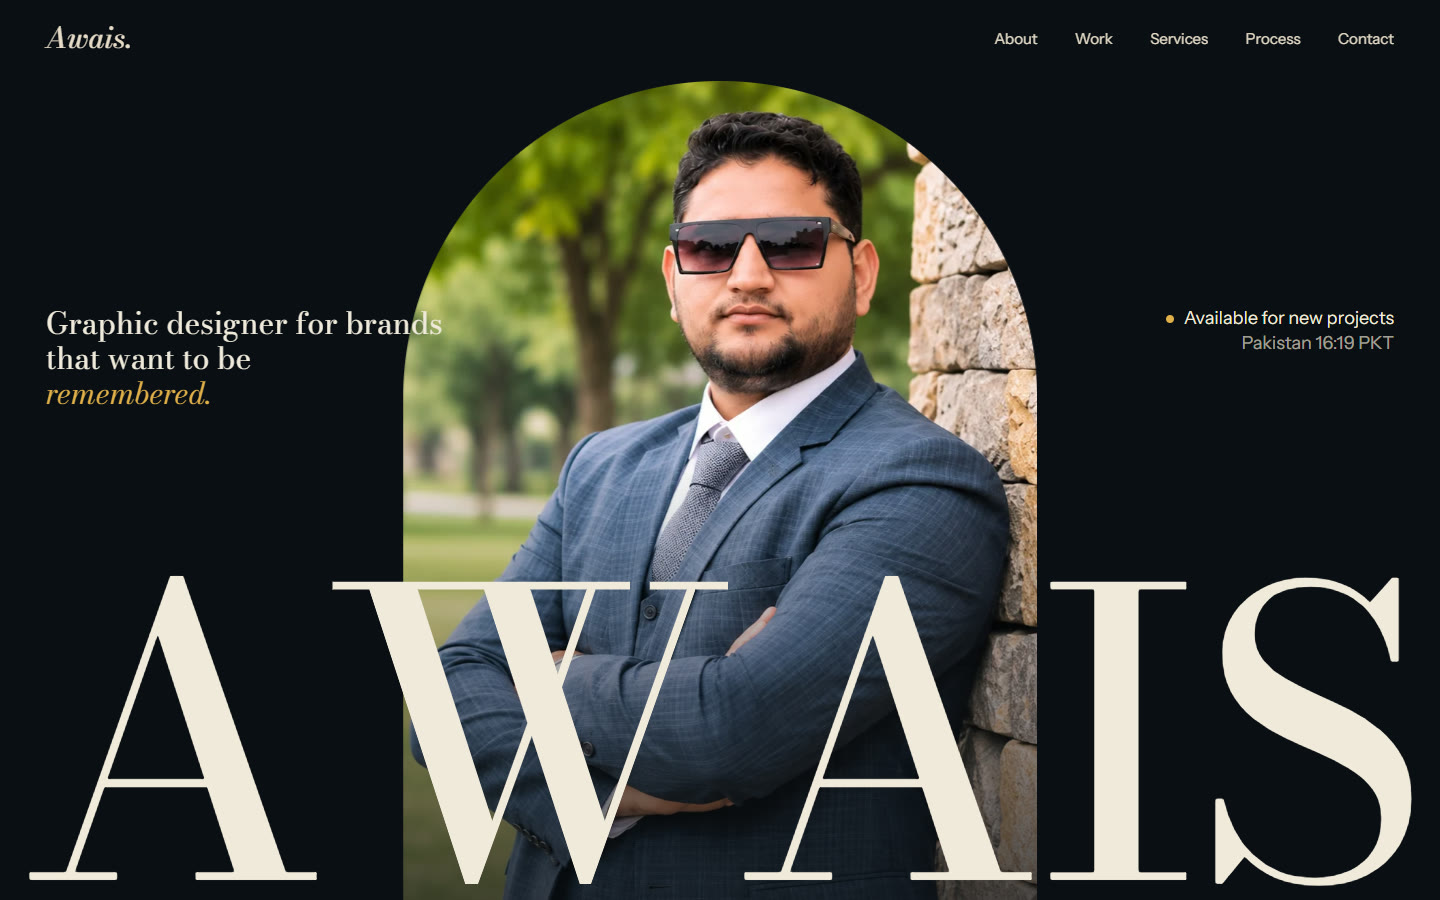
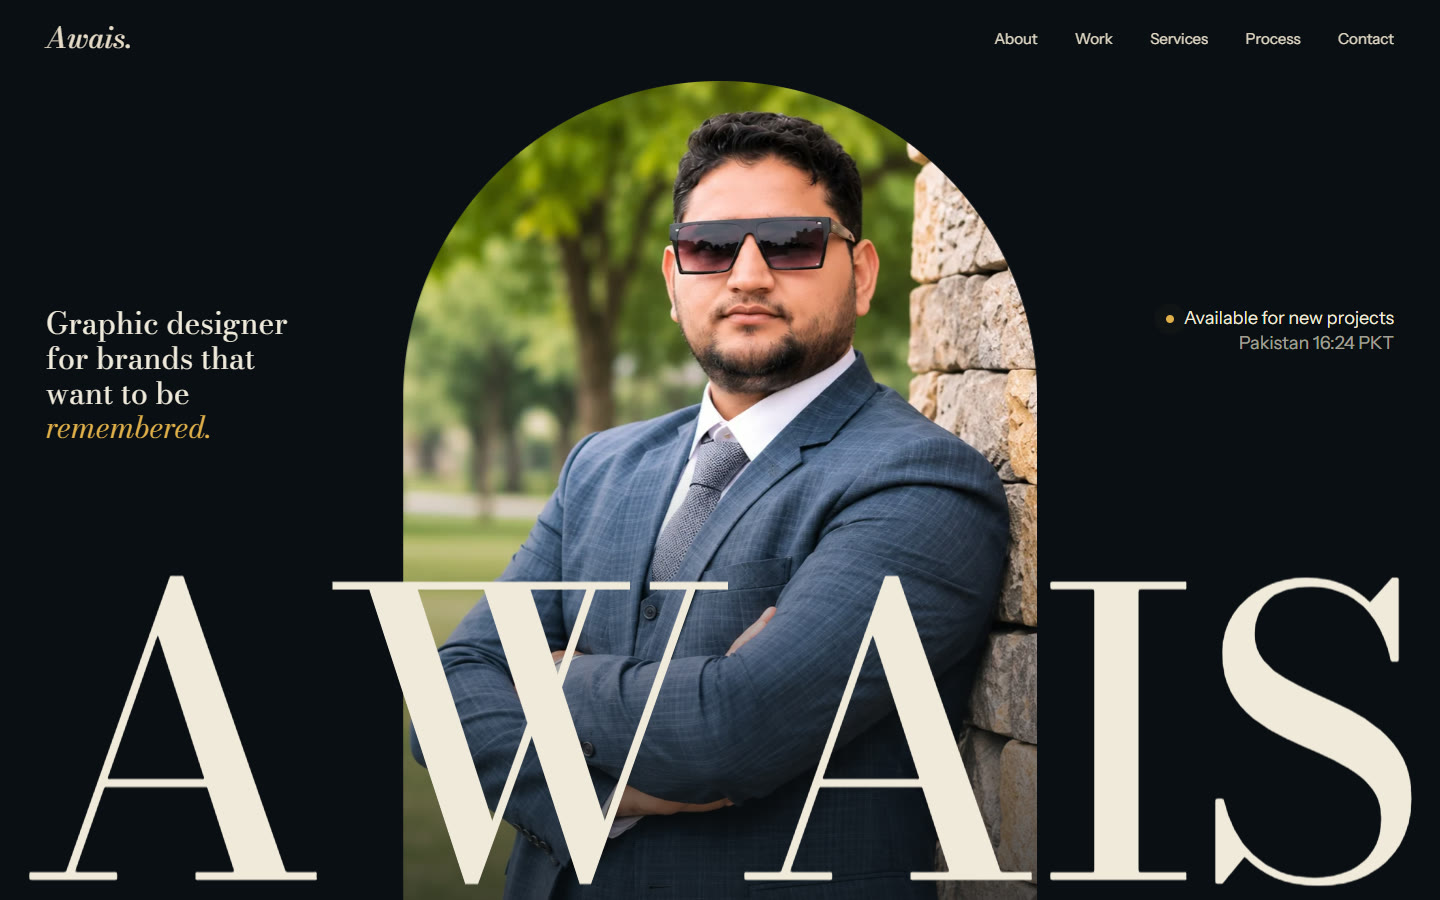
Keep hero tagline clear of the portrait

diff --git a/index.html b/index.html
@@ -57,7 +57,7 @@
       <figure class="hero__portrait">
         <img src="assets/img/awais-wall.webp" alt="Awais in a slate-blue three-piece suit and dark sunglasses, arms folded, leaning on a stone wall" width="1254" height="1254" fetchpriority="high">
       </figure>
-      <p class="hero__meta hero__meta--l">Graphic designer for brands<br>that want to be<br><em>remembered.</em></p>
+      <p class="hero__meta hero__meta--l">Graphic designer<br>for brands that<br>want to be<br><em>remembered.</em></p>
       <div class="hero__meta hero__meta--r">
         <p><span class="dot"></span> Available for new projects</p>
         <p>Pakistan <span data-clock>--:--</span> PKT</p>
